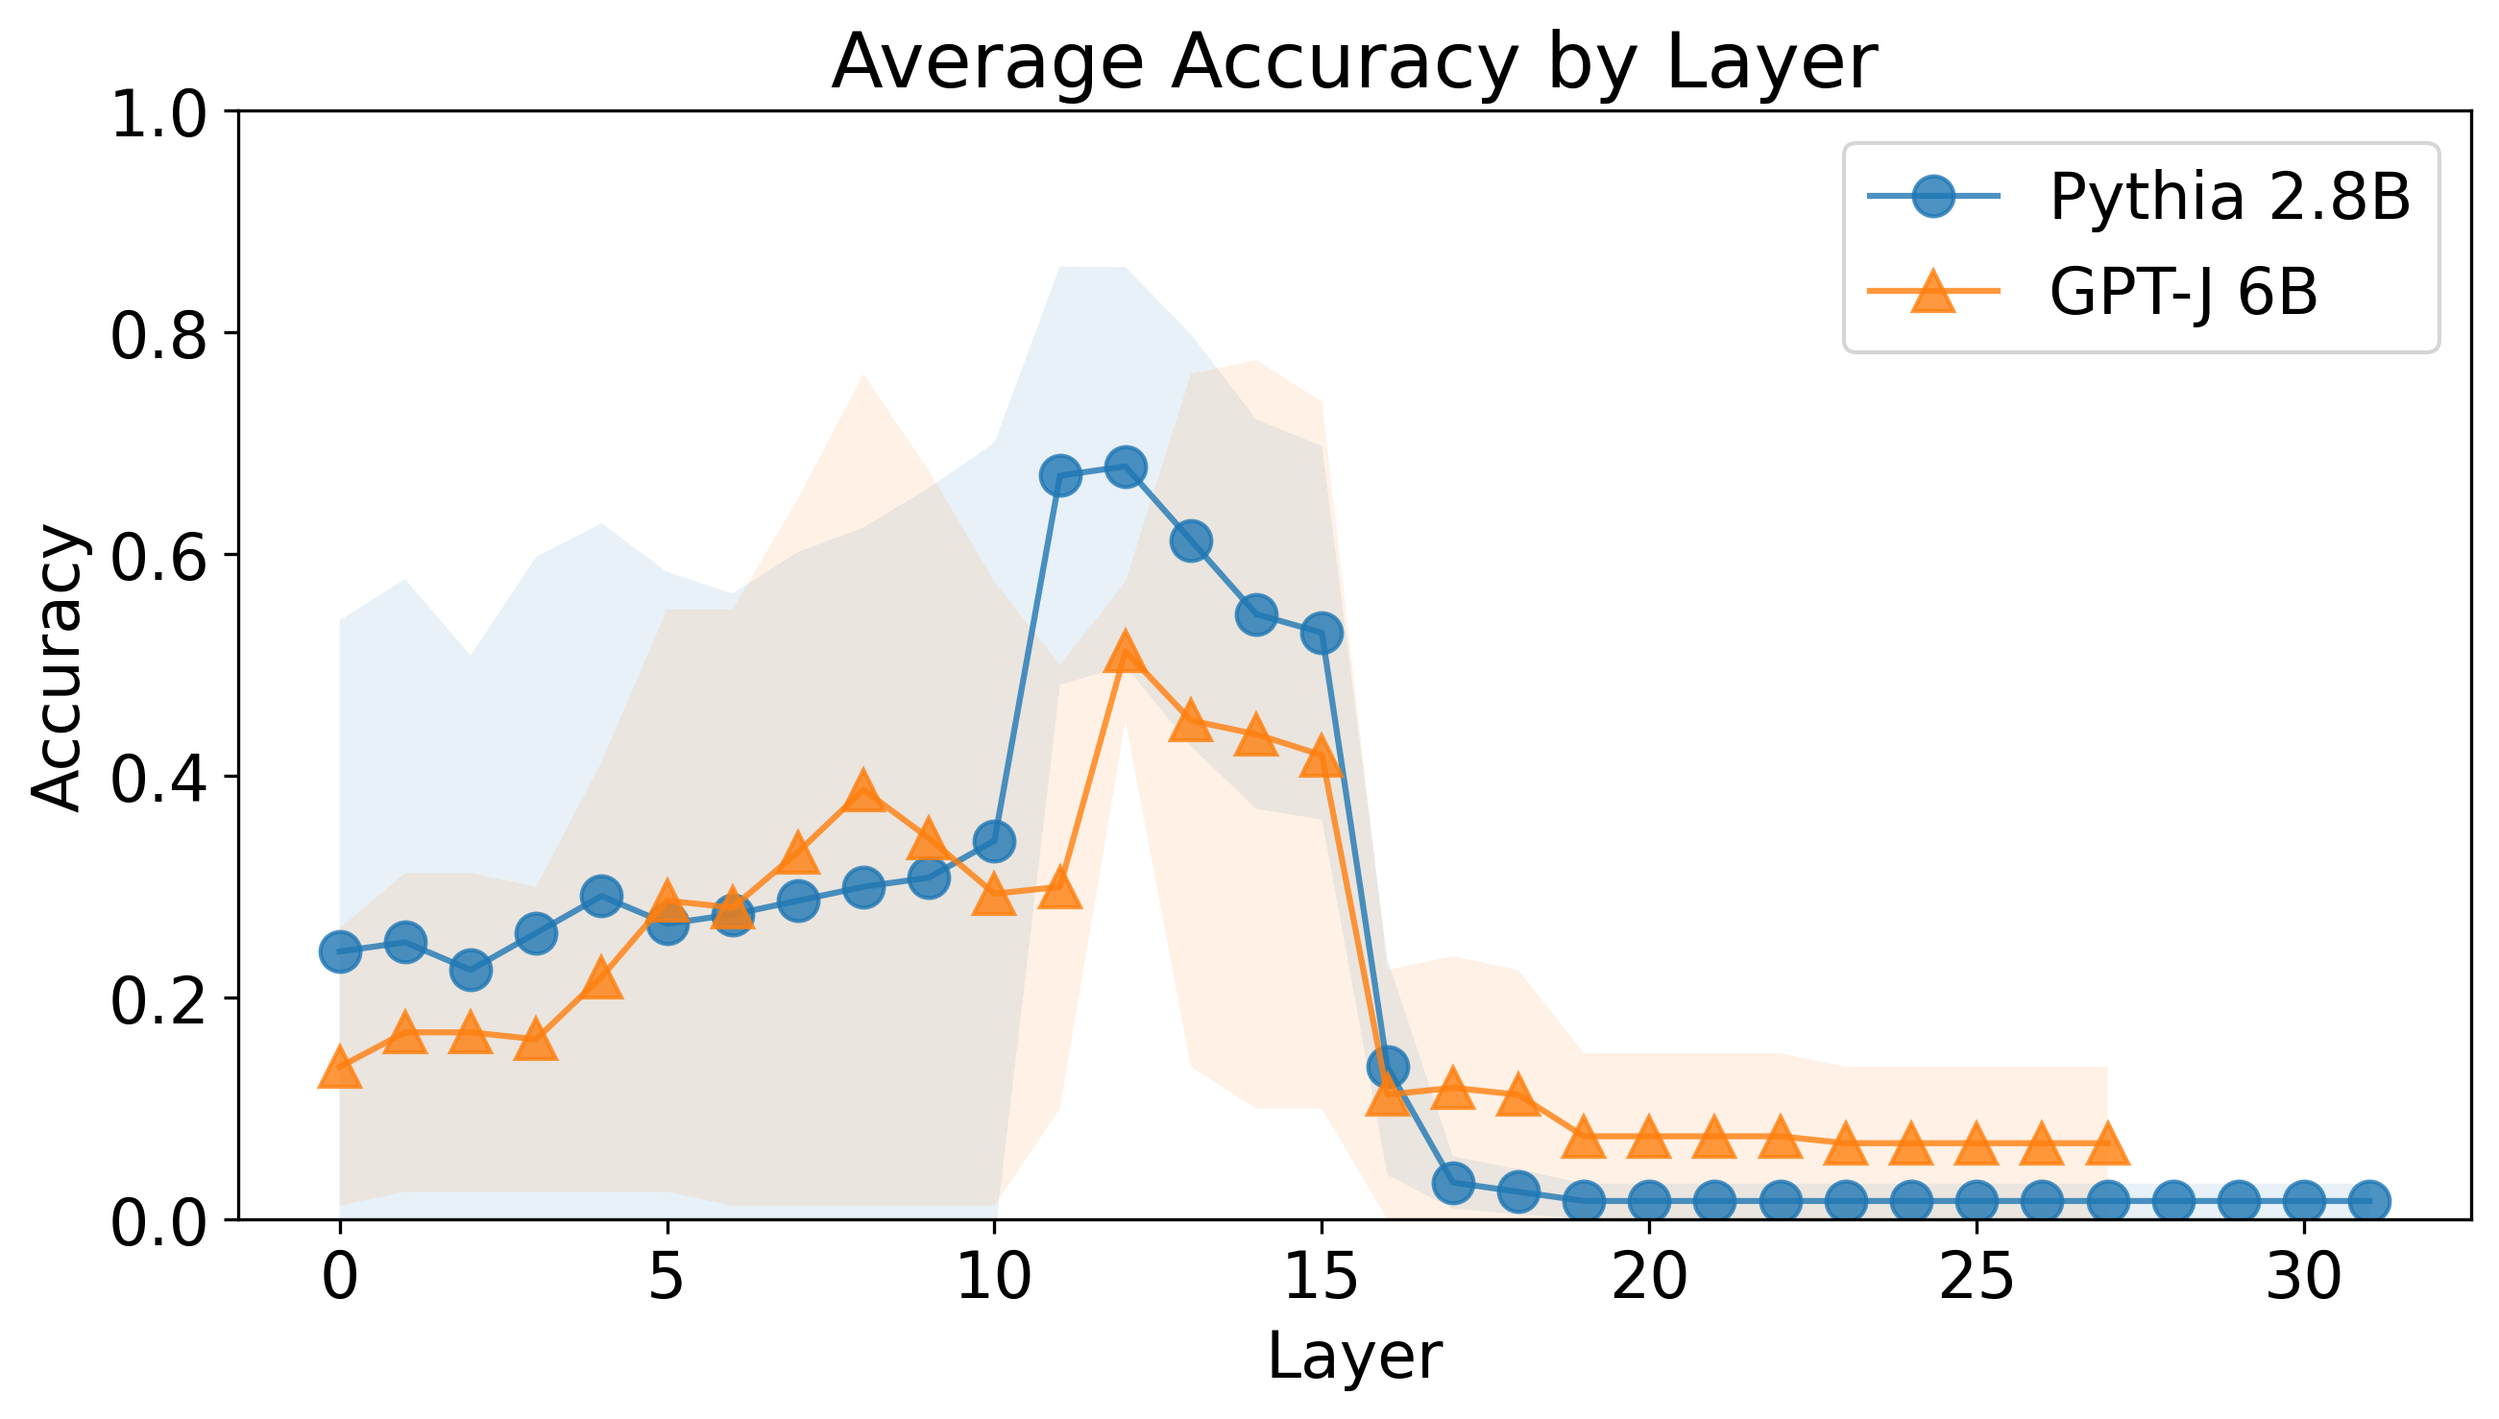
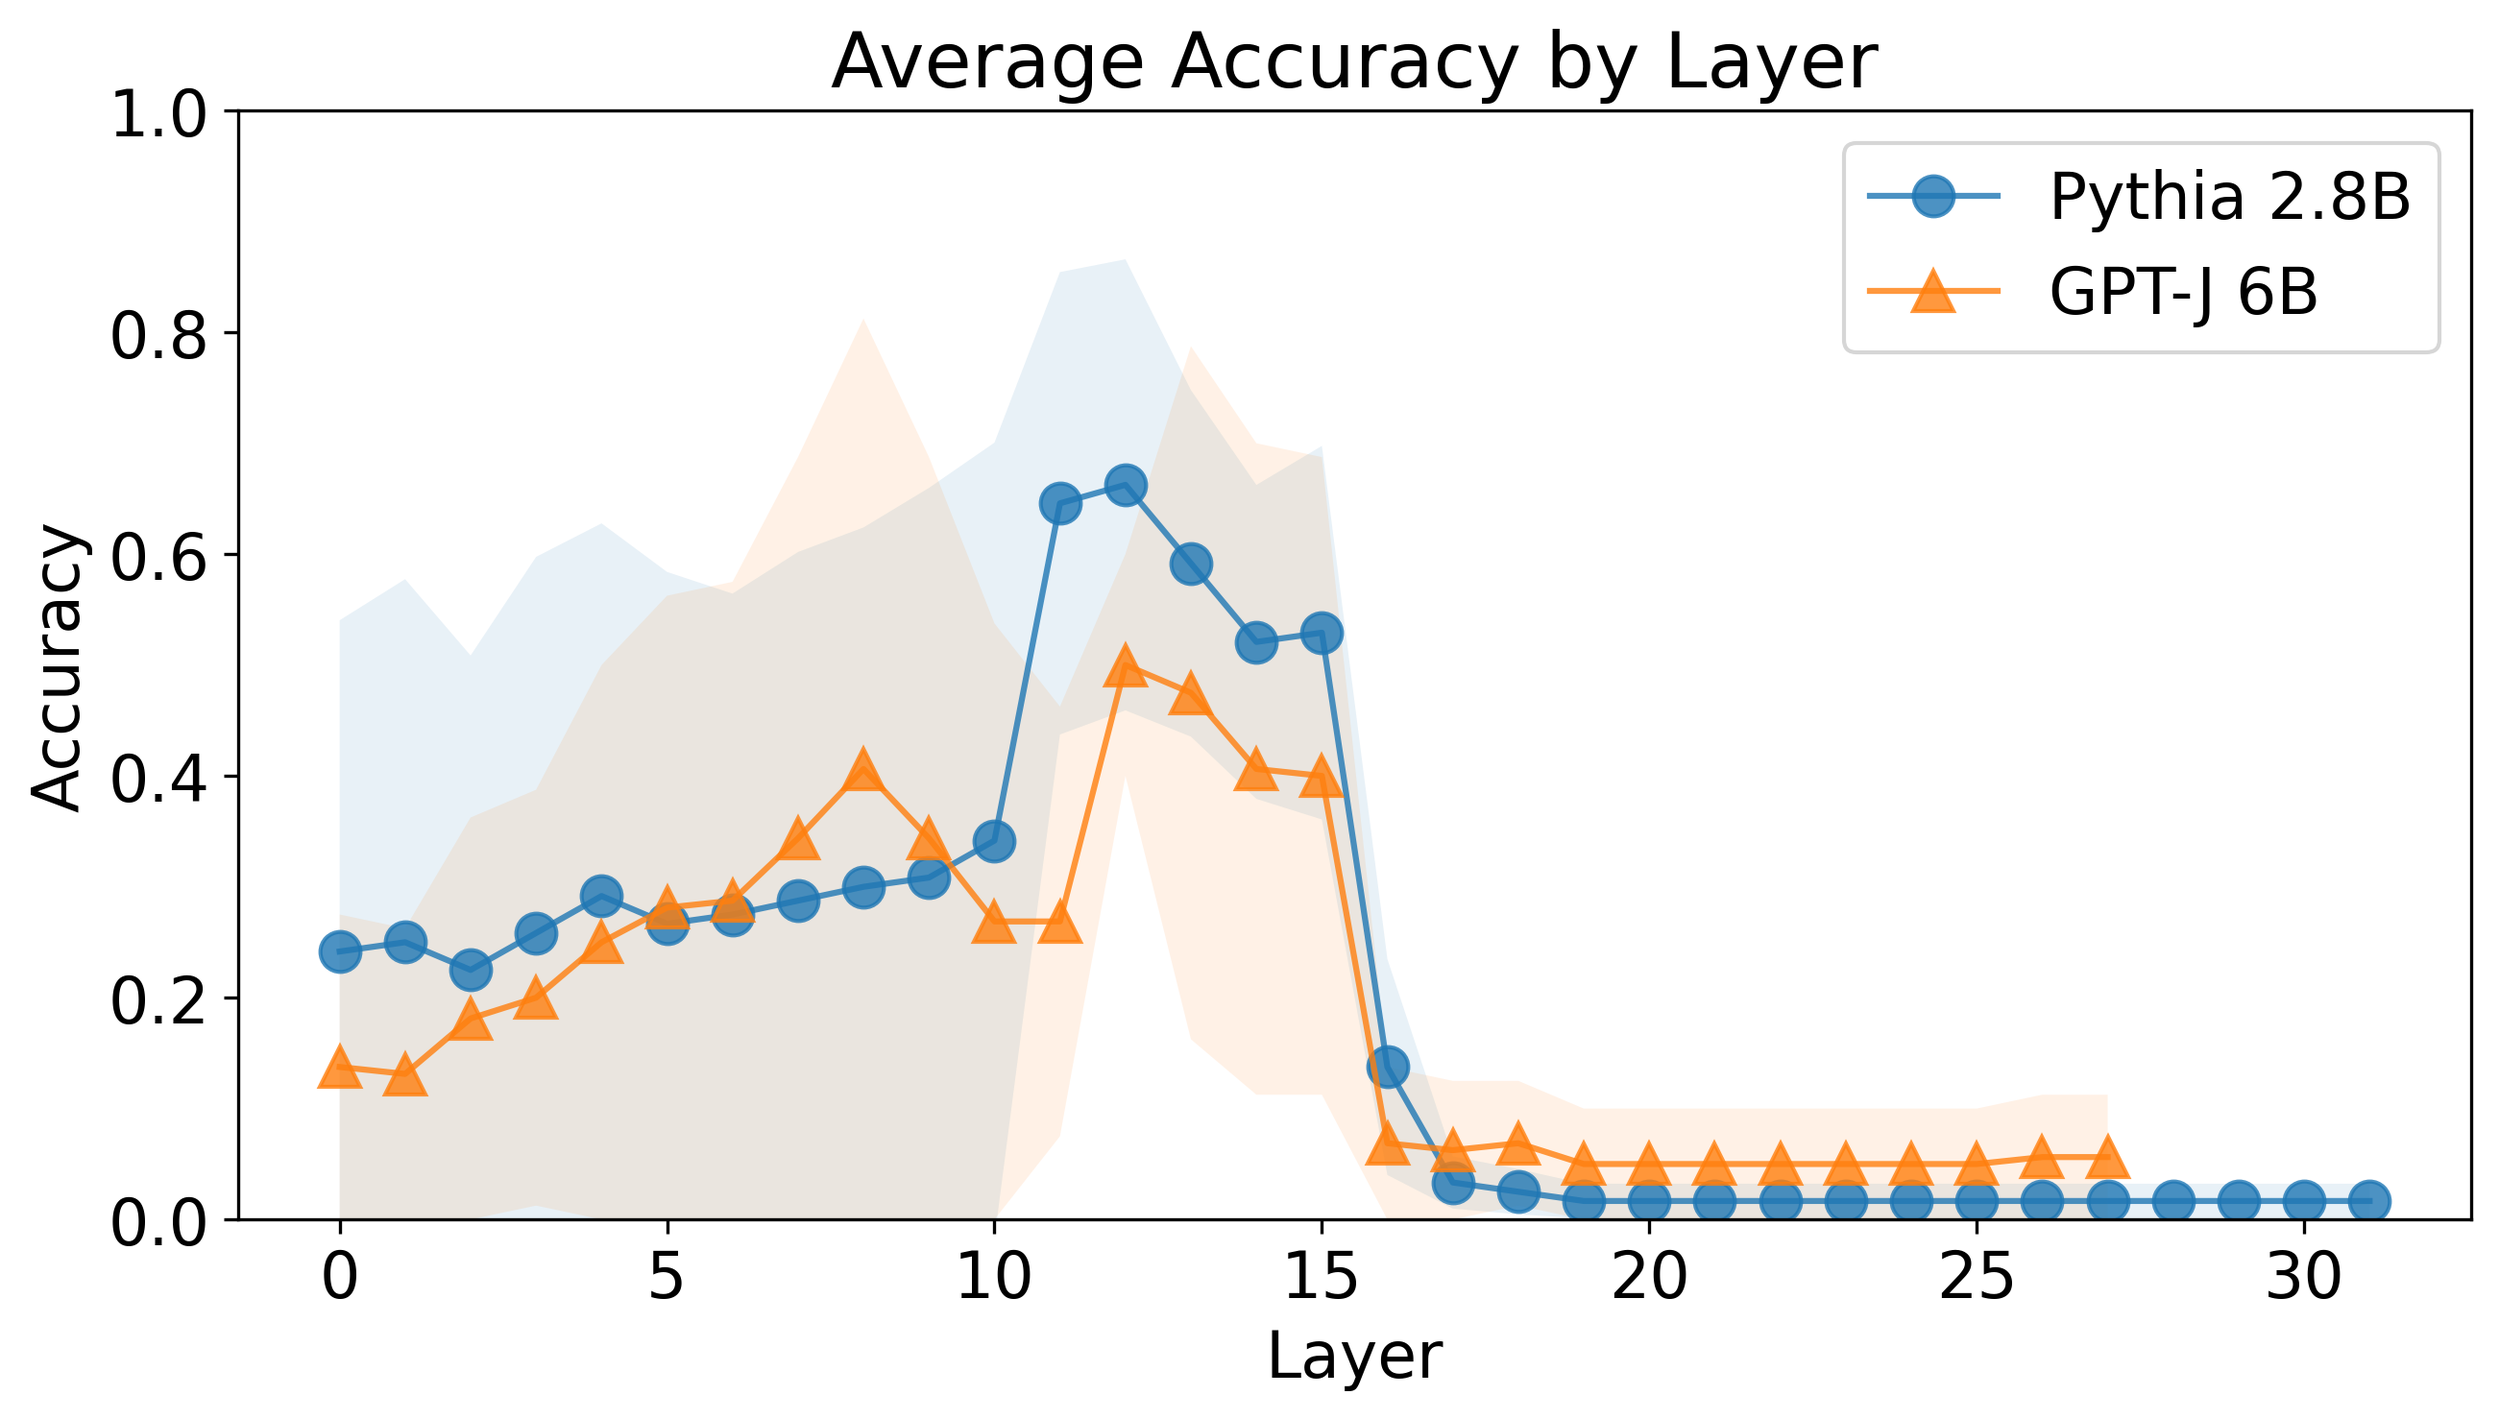
fig code

diff --git a/outputs/figures/main_experiment_results_table.tex b/outputs/figures/main_experiment_results_table.tex
@@ -19,49 +19,49 @@ Model & Task type & Task name &  &  &  &  &  &  &  &  &  &  &  &  &  \\
 \midrule
     \endhead
     
-\multirow[t]{18}{*}{GPT-J 6B} & \multirow[t]{6}{*}{Algorithmic} & List first & 0.23 & 0.89 & 0.71 & 0.66 & 0.61 & 0.65 & 0.62 & 0.68 & 0.62 & 0.69 & 0.68 & 0.68 & 0.64 \\
- &  & List last & 0.31 & 0.68 & 0.42 & 0.45 & 0.45 & 0.46 & 0.36 & 0.42 & 0.42 & 0.34 & 0.39 & 0.41 & 0.41 \\
- &  & Next letter & 0.26 & 0.85 & 0.75 & 0.84 & 0.82 & 0.78 & 0.78 & 0.82 & 0.81 & 0.76 & 0.80 & 0.80 & 0.81 \\
- &  & Prev letter & 0.14 & 0.03 & 0.24 & 0.26 & 0.28 & 0.25 & 0.25 & 0.29 & 0.26 & 0.26 & 0.24 & 0.26 & 0.30 \\
- &  & To lower & 0.00 & 0.95 & 0.07 & 0.05 & 0.05 & 0.09 & 0.12 & 0.10 & 0.03 & 0.07 & 0.11 & 0.06 & 0.09 \\
- &  & To upper & 0.00 & 0.99 & 0.15 & 0.23 & 0.12 & 0.19 & 0.19 & 0.16 & 0.11 & 0.10 & 0.14 & 0.19 & 0.24 \\
+\multirow[t]{18}{*}{GPT-J 6B} & \multirow[t]{6}{*}{Algorithmic} & List first & 0.23 & 0.89 & 0.71 & 0.19 & 0.16 & 0.12 & 0.11 & 0.14 & 0.11 & 0.15 & 0.15 & 0.11 & 0.12 \\
+ &  & List last & 0.31 & 0.68 & 0.42 & 0.33 & 0.31 & 0.39 & 0.39 & 0.39 & 0.41 & 0.35 & 0.39 & 0.42 & 0.31 \\
+ &  & Next letter & 0.14 & 0.76 & 0.79 & 0.46 & 0.53 & 0.51 & 0.53 & 0.46 & 0.50 & 0.49 & 0.51 & 0.47 & 0.49 \\
+ &  & Prev letter & 0.08 & 0.01 & 0.23 & 0.11 & 0.09 & 0.11 & 0.10 & 0.12 & 0.09 & 0.12 & 0.14 & 0.10 & 0.11 \\
+ &  & To lower & 0.00 & 0.96 & 0.09 & 0.07 & 0.06 & 0.06 & 0.06 & 0.05 & 0.06 & 0.06 & 0.07 & 0.09 & 0.10 \\
+ &  & To upper & 0.00 & 1.00 & 0.21 & 0.42 & 0.35 & 0.49 & 0.45 & 0.33 & 0.42 & 0.35 & 0.31 & 0.36 & 0.42 \\
 \cline{2-16}
- & \multirow[t]{4}{*}{Knowledge} & Country capital & 0.09 & 0.45 & 0.39 & 0.46 & 0.40 & 0.41 & 0.39 & 0.40 & 0.46 & 0.40 & 0.47 & 0.49 & 0.41 \\
- &  & Location continent & 0.03 & 0.64 & 0.47 & 0.47 & 0.40 & 0.41 & 0.41 & 0.40 & 0.41 & 0.46 & 0.40 & 0.42 & 0.45 \\
- &  & Location religion & 0.09 & 0.68 & 0.53 & 0.46 & 0.51 & 0.45 & 0.44 & 0.42 & 0.53 & 0.57 & 0.44 & 0.46 & 0.42 \\
- &  & Person language & 0.02 & 0.79 & 0.80 & 0.79 & 0.75 & 0.75 & 0.81 & 0.68 & 0.79 & 0.76 & 0.79 & 0.79 & 0.79 \\
+ & \multirow[t]{4}{*}{Knowledge} & Country capital & 0.13 & 0.47 & 0.55 & 0.49 & 0.44 & 0.39 & 0.46 & 0.35 & 0.41 & 0.45 & 0.44 & 0.46 & 0.47 \\
+ &  & Location continent & 0.03 & 0.53 & 0.40 & 0.54 & 0.53 & 0.55 & 0.50 & 0.47 & 0.46 & 0.51 & 0.50 & 0.45 & 0.44 \\
+ &  & Location religion & 0.09 & 0.65 & 0.55 & 0.31 & 0.34 & 0.34 & 0.46 & 0.39 & 0.34 & 0.36 & 0.30 & 0.30 & 0.44 \\
+ &  & Person language & 0.02 & 0.79 & 0.81 & 0.81 & 0.81 & 0.80 & 0.84 & 0.78 & 0.85 & 0.80 & 0.78 & 0.81 & 0.82 \\
 \cline{2-16}
- & \multirow[t]{4}{*}{Linguistic} & Antonyms & 0.42 & 0.54 & 0.49 & 0.46 & 0.49 & 0.46 & 0.49 & 0.46 & 0.47 & 0.56 & 0.49 & 0.51 & 0.47 \\
- &  & Plural singular & 0.11 & 0.65 & 0.56 & 0.64 & 0.61 & 0.65 & 0.65 & 0.70 & 0.75 & 0.68 & 0.65 & 0.71 & 0.65 \\
- &  & Present simple gerund & 0.00 & 0.64 & 0.45 & 0.40 & 0.42 & 0.40 & 0.51 & 0.42 & 0.46 & 0.40 & 0.50 & 0.38 & 0.54 \\
- &  & Present simple past simple & 0.01 & 0.60 & 0.55 & 0.50 & 0.42 & 0.53 & 0.56 & 0.53 & 0.45 & 0.42 & 0.51 & 0.51 & 0.45 \\
+ & \multirow[t]{4}{*}{Linguistic} & Antonyms & 0.35 & 0.56 & 0.42 & 0.41 & 0.40 & 0.44 & 0.46 & 0.38 & 0.41 & 0.41 & 0.45 & 0.45 & 0.45 \\
+ &  & Plural singular & 0.03 & 0.71 & 0.65 & 0.64 & 0.60 & 0.50 & 0.57 & 0.64 & 0.61 & 0.60 & 0.57 & 0.59 & 0.60 \\
+ &  & Present simple gerund & 0.00 & 0.56 & 0.42 & 0.47 & 0.49 & 0.49 & 0.50 & 0.47 & 0.51 & 0.50 & 0.49 & 0.44 & 0.47 \\
+ &  & Present simple past simple & 0.01 & 0.57 & 0.54 & 0.46 & 0.46 & 0.49 & 0.57 & 0.54 & 0.49 & 0.56 & 0.42 & 0.45 & 0.49 \\
 \cline{2-16}
- & \multirow[t]{4}{*}{Translation} & En es & 0.24 & 0.33 & 0.33 & 0.30 & 0.30 & 0.30 & 0.33 & 0.34 & 0.30 & 0.36 & 0.34 & 0.35 & 0.31 \\
- &  & En fr & 0.19 & 0.38 & 0.41 & 0.39 & 0.39 & 0.36 & 0.40 & 0.42 & 0.36 & 0.36 & 0.36 & 0.41 & 0.39 \\
- &  & Es en & 0.09 & 0.65 & 0.50 & 0.45 & 0.51 & 0.51 & 0.54 & 0.40 & 0.49 & 0.38 & 0.54 & 0.51 & 0.56 \\
- &  & Fr en & 0.17 & 0.50 & 0.31 & 0.47 & 0.39 & 0.40 & 0.34 & 0.34 & 0.44 & 0.35 & 0.42 & 0.41 & 0.41 \\
+ & \multirow[t]{4}{*}{Translation} & En es & 0.19 & 0.30 & 0.33 & 0.35 & 0.34 & 0.35 & 0.36 & 0.35 & 0.38 & 0.36 & 0.36 & 0.38 & 0.38 \\
+ &  & En fr & 0.17 & 0.30 & 0.38 & 0.39 & 0.39 & 0.45 & 0.42 & 0.38 & 0.42 & 0.42 & 0.42 & 0.41 & 0.44 \\
+ &  & Es en & 0.07 & 0.65 & 0.56 & 0.54 & 0.55 & 0.55 & 0.61 & 0.56 & 0.53 & 0.55 & 0.57 & 0.59 & 0.50 \\
+ &  & Fr en & 0.13 & 0.60 & 0.45 & 0.45 & 0.47 & 0.40 & 0.53 & 0.49 & 0.54 & 0.47 & 0.55 & 0.49 & 0.45 \\
 \cline{1-16} \cline{2-16}
-\multirow[t]{18}{*}{Pythia 2.8B} & \multirow[t]{6}{*}{Algorithmic} & List first & 0.65 & 0.95 & 0.95 & 0.93 & 0.91 & 0.91 & 0.94 & 0.91 & 0.94 & 0.89 & 0.89 & 0.93 & 0.93 \\
- &  & List last & 0.02 & 0.84 & 0.82 & 0.74 & 0.81 & 0.82 & 0.75 & 0.79 & 0.70 & 0.74 & 0.71 & 0.85 & 0.80 \\
- &  & Next letter & 0.49 & 0.75 & 0.64 & 0.70 & 0.71 & 0.69 & 0.66 & 0.68 & 0.69 & 0.66 & 0.64 & 0.71 & 0.64 \\
- &  & Prev letter & 0.06 & 0.03 & 0.12 & 0.15 & 0.15 & 0.11 & 0.09 & 0.14 & 0.15 & 0.15 & 0.19 & 0.11 & 0.09 \\
- &  & To lower & 0.00 & 0.84 & 0.54 & 0.49 & 0.49 & 0.57 & 0.60 & 0.47 & 0.56 & 0.51 & 0.50 & 0.55 & 0.41 \\
- &  & To upper & 0.00 & 0.96 & 0.88 & 0.97 & 0.91 & 0.94 & 0.85 & 0.93 & 0.97 & 0.90 & 0.91 & 0.88 & 0.95 \\
+\multirow[t]{18}{*}{Pythia 2.8B} & \multirow[t]{6}{*}{Algorithmic} & List first & 0.65 & 0.95 & 0.95 & 0.95 & 0.97 & 0.97 & 0.97 & 0.97 & 0.97 & 0.97 & 0.99 & 0.96 & 0.99 \\
+ &  & List last & 0.02 & 0.84 & 0.82 & 0.47 & 0.42 & 0.45 & 0.42 & 0.45 & 0.39 & 0.44 & 0.42 & 0.59 & 0.50 \\
+ &  & Next letter & 0.40 & 0.66 & 0.62 & 0.34 & 0.38 & 0.35 & 0.34 & 0.38 & 0.33 & 0.39 & 0.34 & 0.30 & 0.34 \\
+ &  & Prev letter & 0.03 & 0.01 & 0.16 & 0.11 & 0.09 & 0.12 & 0.09 & 0.11 & 0.11 & 0.11 & 0.12 & 0.11 & 0.12 \\
+ &  & To lower & 0.00 & 0.70 & 0.44 & 0.23 & 0.25 & 0.24 & 0.23 & 0.25 & 0.29 & 0.33 & 0.23 & 0.24 & 0.20 \\
+ &  & To upper & 0.00 & 1.00 & 0.91 & 0.72 & 0.68 & 0.82 & 0.82 & 0.76 & 0.74 & 0.72 & 0.76 & 0.80 & 0.75 \\
 \cline{2-16}
- & \multirow[t]{4}{*}{Knowledge} & Country capital & 0.11 & 0.50 & 0.46 & 0.42 & 0.53 & 0.49 & 0.45 & 0.50 & 0.44 & 0.39 & 0.46 & 0.56 & 0.46 \\
- &  & Location continent & 0.03 & 0.61 & 0.51 & 0.51 & 0.49 & 0.47 & 0.46 & 0.46 & 0.44 & 0.49 & 0.54 & 0.53 & 0.45 \\
- &  & Location religion & 0.11 & 0.40 & 0.39 & 0.40 & 0.33 & 0.34 & 0.41 & 0.36 & 0.53 & 0.39 & 0.35 & 0.33 & 0.36 \\
- &  & Person language & 0.02 & 0.65 & 0.59 & 0.71 & 0.55 & 0.60 & 0.62 & 0.60 & 0.66 & 0.74 & 0.71 & 0.62 & 0.65 \\
+ & \multirow[t]{4}{*}{Knowledge} & Country capital & 0.13 & 0.51 & 0.54 & 0.50 & 0.46 & 0.53 & 0.45 & 0.42 & 0.51 & 0.54 & 0.49 & 0.49 & 0.53 \\
+ &  & Location continent & 0.03 & 0.54 & 0.49 & 0.45 & 0.41 & 0.49 & 0.45 & 0.42 & 0.33 & 0.46 & 0.44 & 0.42 & 0.39 \\
+ &  & Location religion & 0.06 & 0.40 & 0.45 & 0.35 & 0.38 & 0.35 & 0.38 & 0.42 & 0.33 & 0.40 & 0.38 & 0.40 & 0.29 \\
+ &  & Person language & 0.01 & 0.65 & 0.60 & 0.75 & 0.69 & 0.71 & 0.74 & 0.72 & 0.75 & 0.76 & 0.72 & 0.71 & 0.70 \\
 \cline{2-16}
- & \multirow[t]{4}{*}{Linguistic} & Antonyms & 0.45 & 0.51 & 0.36 & 0.36 & 0.35 & 0.36 & 0.38 & 0.36 & 0.33 & 0.36 & 0.31 & 0.39 & 0.35 \\
- &  & Plural singular & 0.09 & 0.57 & 0.59 & 0.66 & 0.55 & 0.64 & 0.54 & 0.50 & 0.68 & 0.57 & 0.66 & 0.57 & 0.60 \\
- &  & Present simple gerund & 0.00 & 0.72 & 0.46 & 0.45 & 0.34 & 0.47 & 0.46 & 0.34 & 0.40 & 0.44 & 0.36 & 0.47 & 0.39 \\
- &  & Present simple past simple & 0.01 & 0.68 & 0.61 & 0.56 & 0.59 & 0.62 & 0.56 & 0.49 & 0.61 & 0.60 & 0.59 & 0.53 & 0.62 \\
+ & \multirow[t]{4}{*}{Linguistic} & Antonyms & 0.42 & 0.50 & 0.35 & 0.30 & 0.41 & 0.33 & 0.40 & 0.38 & 0.36 & 0.40 & 0.40 & 0.39 & 0.34 \\
+ &  & Plural singular & 0.08 & 0.66 & 0.62 & 0.59 & 0.56 & 0.59 & 0.57 & 0.55 & 0.50 & 0.59 & 0.56 & 0.50 & 0.56 \\
+ &  & Present simple gerund & 0.00 & 0.56 & 0.30 & 0.10 & 0.10 & 0.09 & 0.09 & 0.10 & 0.10 & 0.10 & 0.06 & 0.07 & 0.10 \\
+ &  & Present simple past simple & 0.02 & 0.57 & 0.46 & 0.19 & 0.14 & 0.20 & 0.14 & 0.19 & 0.24 & 0.17 & 0.20 & 0.19 & 0.21 \\
 \cline{2-16}
- & \multirow[t]{4}{*}{Translation} & En es & 0.10 & 0.35 & 0.23 & 0.23 & 0.20 & 0.23 & 0.24 & 0.26 & 0.26 & 0.24 & 0.20 & 0.21 & 0.21 \\
- &  & En fr & 0.16 & 0.36 & 0.33 & 0.29 & 0.30 & 0.30 & 0.30 & 0.31 & 0.33 & 0.33 & 0.29 & 0.30 & 0.30 \\
- &  & Es en & 0.13 & 0.65 & 0.45 & 0.46 & 0.41 & 0.44 & 0.51 & 0.47 & 0.46 & 0.47 & 0.51 & 0.46 & 0.47 \\
- &  & Fr en & 0.17 & 0.59 & 0.40 & 0.42 & 0.41 & 0.42 & 0.33 & 0.39 & 0.50 & 0.45 & 0.40 & 0.35 & 0.38 \\
+ & \multirow[t]{4}{*}{Translation} & En es & 0.11 & 0.36 & 0.33 & 0.31 & 0.31 & 0.33 & 0.30 & 0.33 & 0.31 & 0.31 & 0.33 & 0.30 & 0.31 \\
+ &  & En fr & 0.14 & 0.21 & 0.26 & 0.26 & 0.30 & 0.28 & 0.30 & 0.28 & 0.28 & 0.26 & 0.28 & 0.30 & 0.26 \\
+ &  & Es en & 0.09 & 0.59 & 0.42 & 0.36 & 0.29 & 0.38 & 0.39 & 0.34 & 0.34 & 0.38 & 0.39 & 0.44 & 0.31 \\
+ &  & Fr en & 0.18 & 0.57 & 0.36 & 0.36 & 0.33 & 0.34 & 0.33 & 0.33 & 0.25 & 0.30 & 0.35 & 0.36 & 0.29 \\
 \cline{1-16} \cline{2-16}
 \bottomrule
 \end{longtable}

diff --git a/outputs/figures/top_tokens_table.tex b/outputs/figures/top_tokens_table.tex
@@ -2,15 +2,15 @@
 \toprule
  &  & 0 \\
 \midrule
-\multirow[t]{4}{*}{pythia_2.8B} & algorithmic_prev_letter & thous, OOST, aeda, satell, PARTICULAR, ovember, CURI, advertis, foo, prehens, perty, aaaaaaaa, Syrac, IRST, zombie, vess, THEORY, CLUDING, heimer, ENSE \\
- & translation_fr_en & PLIED, ovember, OOST, CURI, Accessor, REEK, RAF, THEORY, plural, perty, fileID, aturday, HECK, prehens, SAME, PARTICULAR, noc, qc, pril, eft \\
- & linguistic_present_simple_gerund & PLIED, RAF, Accessor, CLUDING, OOST, ovember, prehens, ACP, REEK, CURI, OMEM, POSE, YING, SAME, CHANT, fileID, IRST, omat, cknowled, CEPT \\
- & knowledge_country_capital & thous, answ, CURI, HECK, advertis, establ, orche, uncert, OOST, laug, satell, NaN, clust, POSE, infin, acknow, assertEquals, STRICT, RAF, therap \\
+\multirow[t]{4}{*}{pythia_2.8B} & algorithmic_prev_letter & OOST, thous, satell, REEK, THEORY, IRST, aeda, Syrac, unnumbered, prehens, ovember, orche, perty, PARTICULAR, CLUDING, advertis, ENSE, congression, EMPL, vess \\
+ & translation_fr_en & OOST, THEORY, PLIED, Accessor, REEK, plural, ovember, RAF, prehens, uthan, fileID, thous, unnumbered, IRST, HECK, aaaaaaaa, eft, aeda, CURI, noc \\
+ & linguistic_present_simple_gerund & OOST, RAF, Accessor, PLIED, unnumbered, ovember, THEORY, fileID, perty, REEK, CLUDING, UGH, aaaaaaaa, satell, prehens, noc, eft, tact, qc, uthan \\
+ & knowledge_country_capital & thous, OOST, HECK, laug, answ, satell, CURI, orche, advertis, establ, uncert, Dispatcher, PLIED, NaN, congression, POSE, RAF, THEORY, REEK, Syrac \\
 \cline{1-3}
-\multirow[t]{4}{*}{gpt-j_6B} & algorithmic_prev_letter & name, v, s, id, is, value, test, es, m, next, n, c, world, g, related, d, x, a, b, open \\
- & translation_fr_en & name, related, id, is, n, next, per, form, cancer, string, s, car, code, ref, type, active, translation, the, class, get \\
- & linguistic_present_simple_gerund & active, using, world, being, s, playing, related, per, getting, d, user, the, talking, going, moving, search, life, something, writing, more \\
- & knowledge_country_capital & London, West, South, Germany, Northern, East, Berlin, Eastern, New, Tokyo, Paris, North, Spain, California, Mexico, United, Philadelphia, The, City, southern \\
+\multirow[t]{4}{*}{gpt-j_6B} & algorithmic_prev_letter & a, s, c, x, new, the, id, world, i, t, or, some, user, v, name, n, b, p, is, ib \\
+ & translation_fr_en & name, translation, car, user, no, public, more, the, id, world, we, whole, true, medicine, s, per, new, green, number, cancer \\
+ & linguistic_present_simple_gerund & world, user, org, the, using, life, writing, c, s, new, more, time, no, moving, people, planning, non, working, going, being \\
+ & knowledge_country_capital & London, West, South, New, Germany, North, United, City, East, Northern, Central, Berlin, cities, Eastern, Spain, Republic, European, San, Tokyo, Paris \\
 \cline{1-3}
 \bottomrule
 \end{tabular}

diff --git a/core/task_vectors.py b/core/task_vectors.py
@@ -248,7 +248,7 @@ def stack_get_single_context_task_hiddens(
         FewShotDataset(
             train_inputs=dataset.train_inputs,
             train_outputs=dataset.train_outputs,
-            test_input=test_input + ' ',
+            test_input=test_input,
             test_output=task.calc_output(test_input),
         )
         for dataset in datasets
@@ -260,7 +260,7 @@ def stack_get_single_context_task_hiddens(
     # Stack hidden states
     if isinstance(prev_intermediate_layer, int):
         prev_intermediate_layer = torch.tensor(prev_intermediate_layer).repeat(len(inputs["input_ids"]))
-    injection_positions = -2 * torch.ones_like(prev_intermediate_layer, dtype=torch.long)  # -1
+    injection_positions = 0 * torch.ones_like(prev_intermediate_layer, dtype=torch.long)  # -1
     prev_hiddens = prev_hiddens[torch.arange(len(prev_intermediate_layer)), prev_intermediate_layer]
 
     forward_modifiers = [

diff --git a/scripts/figures/main.py b/scripts/figures/main.py
@@ -309,5 +309,5 @@ def create_all_figures(experiment_id: str):
 
 
 if __name__ == "__main__":
-    experiment_id = "13"
+    experiment_id = "14"
     create_all_figures(experiment_id)
